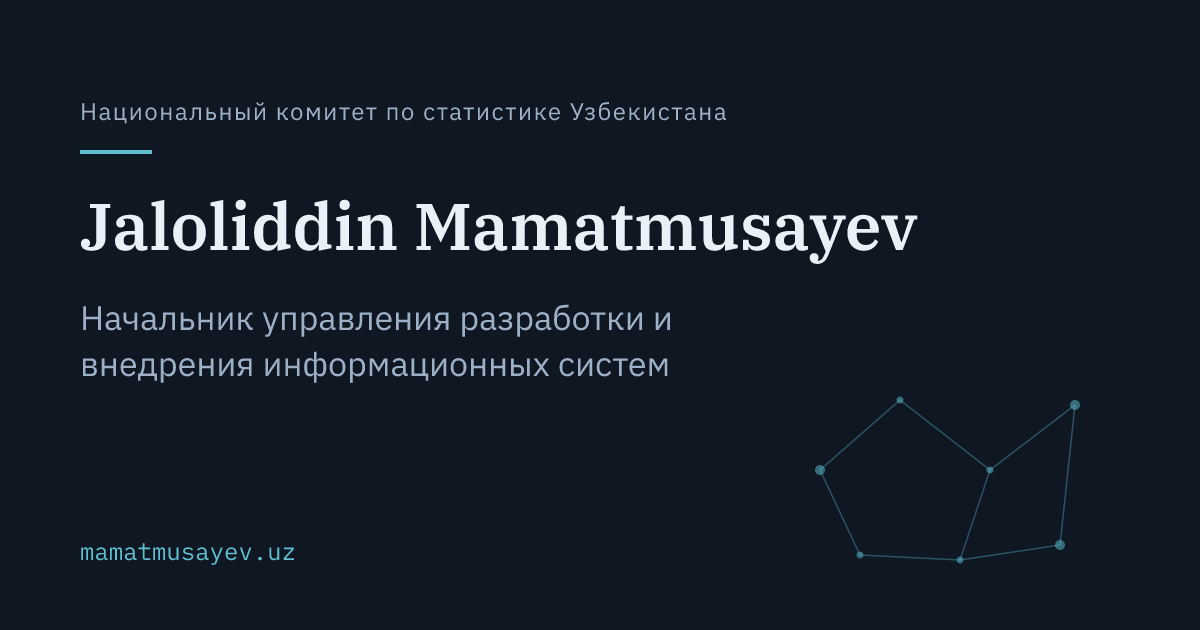
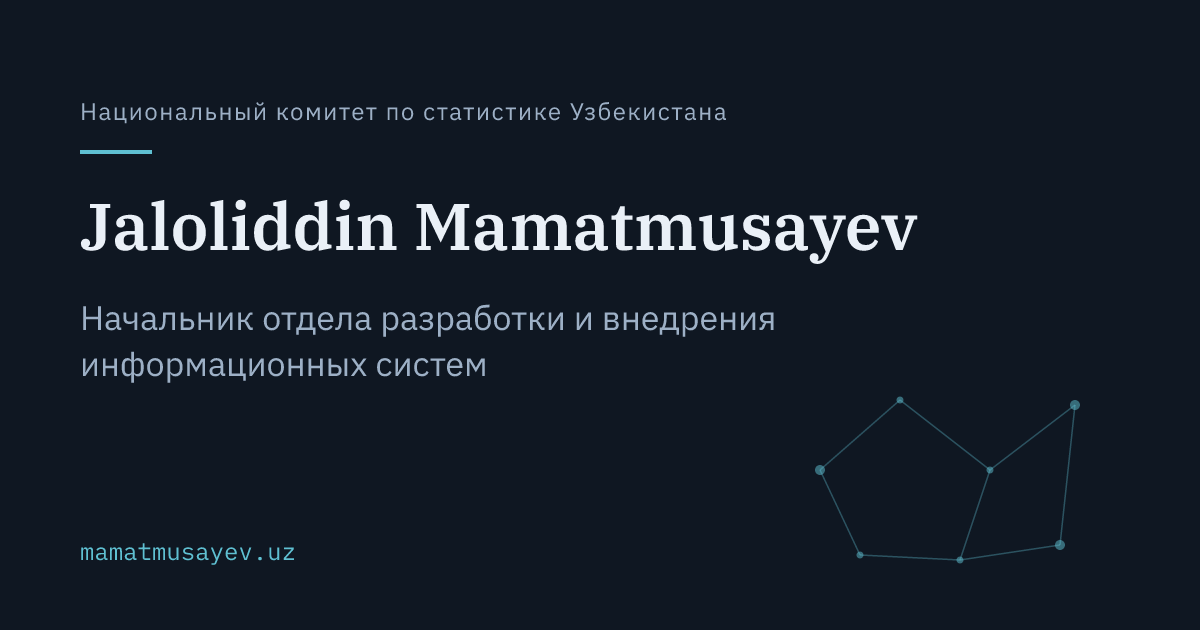
Correct the Uzbek and Russian unit: bo'lim, not departament
The owner's unit is a bo'lim, so Uzbek now reads "...bo'limi boshlig'i" and
"...bo'limi bosh mutaxassisi", and Russian follows with "отдела" instead of
"управления", which is the counterpart of boshqarma. Also updated the About
paragraph, the Now strip and the cross-unit bullets in both languages, and
regenerated the Open Graph cards.

The English titles stay as SPEC A2 records them from LinkedIn; the note in
CONTENT-REVIEW.md says where to change them if "Division" is preferred.

Claude-Session: https://claude.ai/code/session_01V3V7BRPwcD7sGwyZepfVnY

Changed region(s): [[0.0617, 0.4825, 0.6475, 0.6032]]

diff --git a/CONTENT-REVIEW.md b/CONTENT-REVIEW.md
@@ -19,6 +19,16 @@ sheet is the only source of truth: nothing here was invented, embellished or inf
 | Four skill groups                           | A2 → Skills, in the given display order                                   |
 | Twelve repositories                         | A2 → Selected projects; the six marked `featured` are the six named in A2 |
 
+## Corrected by the owner after the first build
+
+- **The unit is a bo‘lim, not a departament.** Uzbek now reads
+  "…bo‘limi boshlig‘i" / "…bo‘limi bosh mutaxassisi", and Russian follows with
+  "отдела" rather than "управления" (which is the counterpart of _boshqarma_).
+  The English titles are left as SPEC A2 records them from LinkedIn — Uzbek
+  state bodies commonly render _bo‘lim_ as "Department" in English. Say the
+  word if it should become "Division" instead; it is one field in
+  `profile.json` and one per role in `experience.json`.
+
 ## Written for this build
 
 - **The About paragraphs** (`profile.about`). Drafted in A3.3 during the review and
